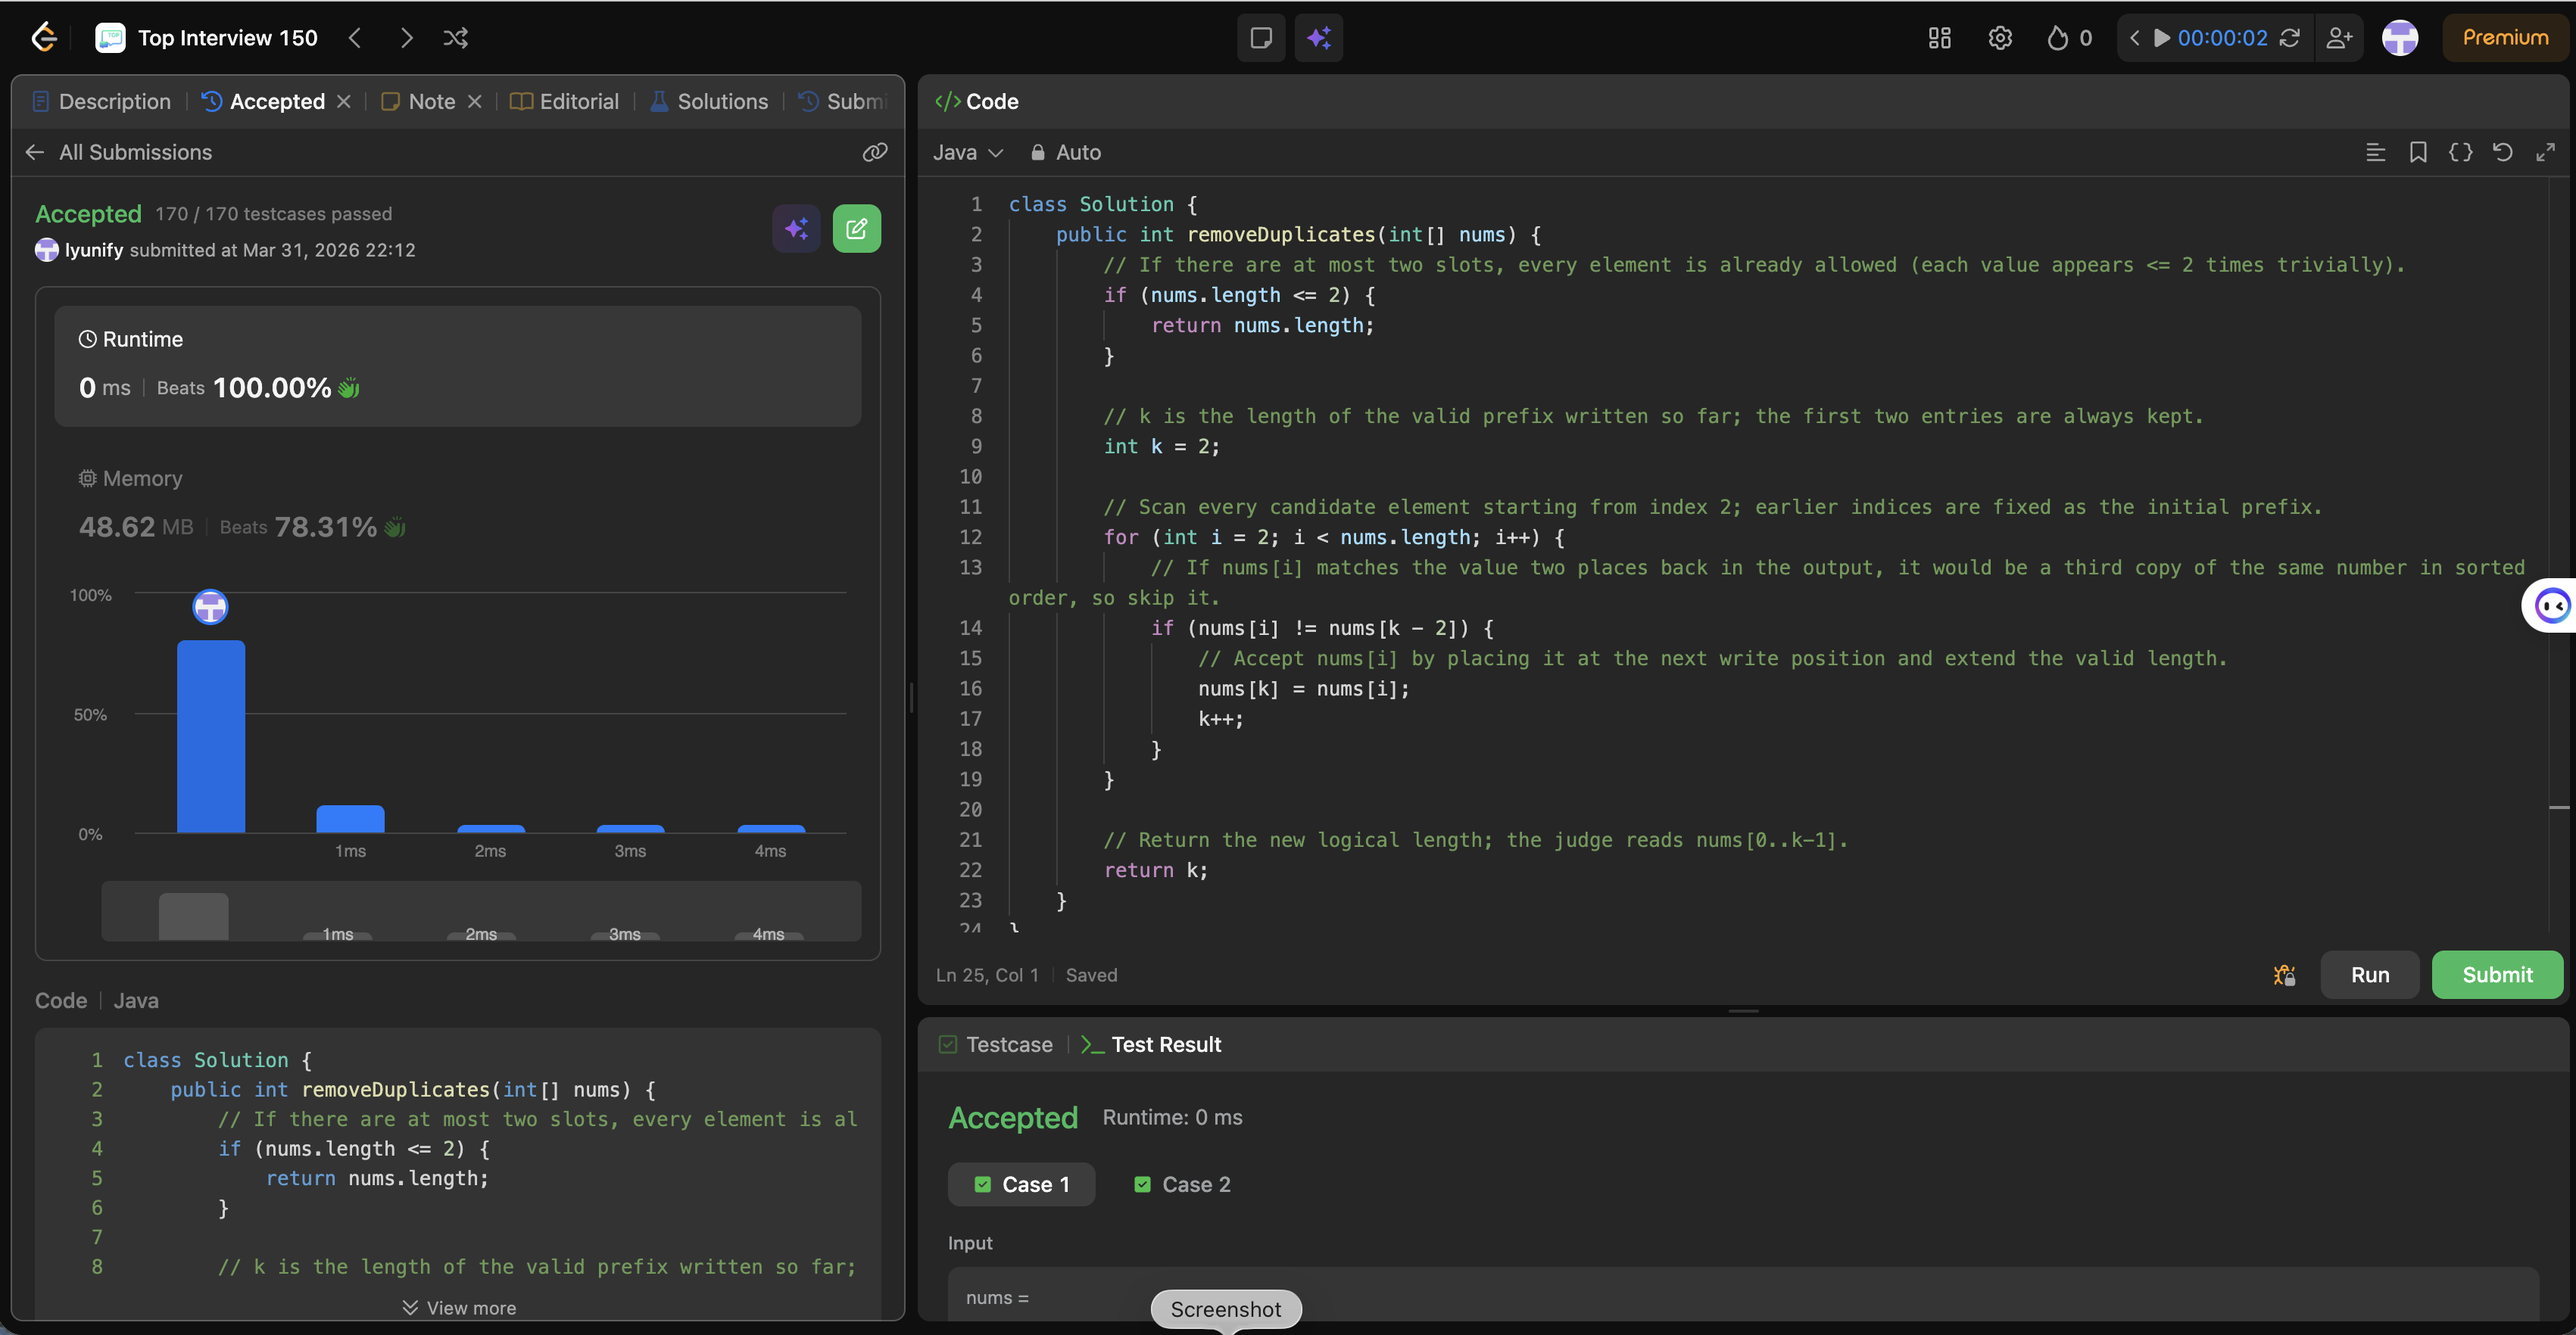
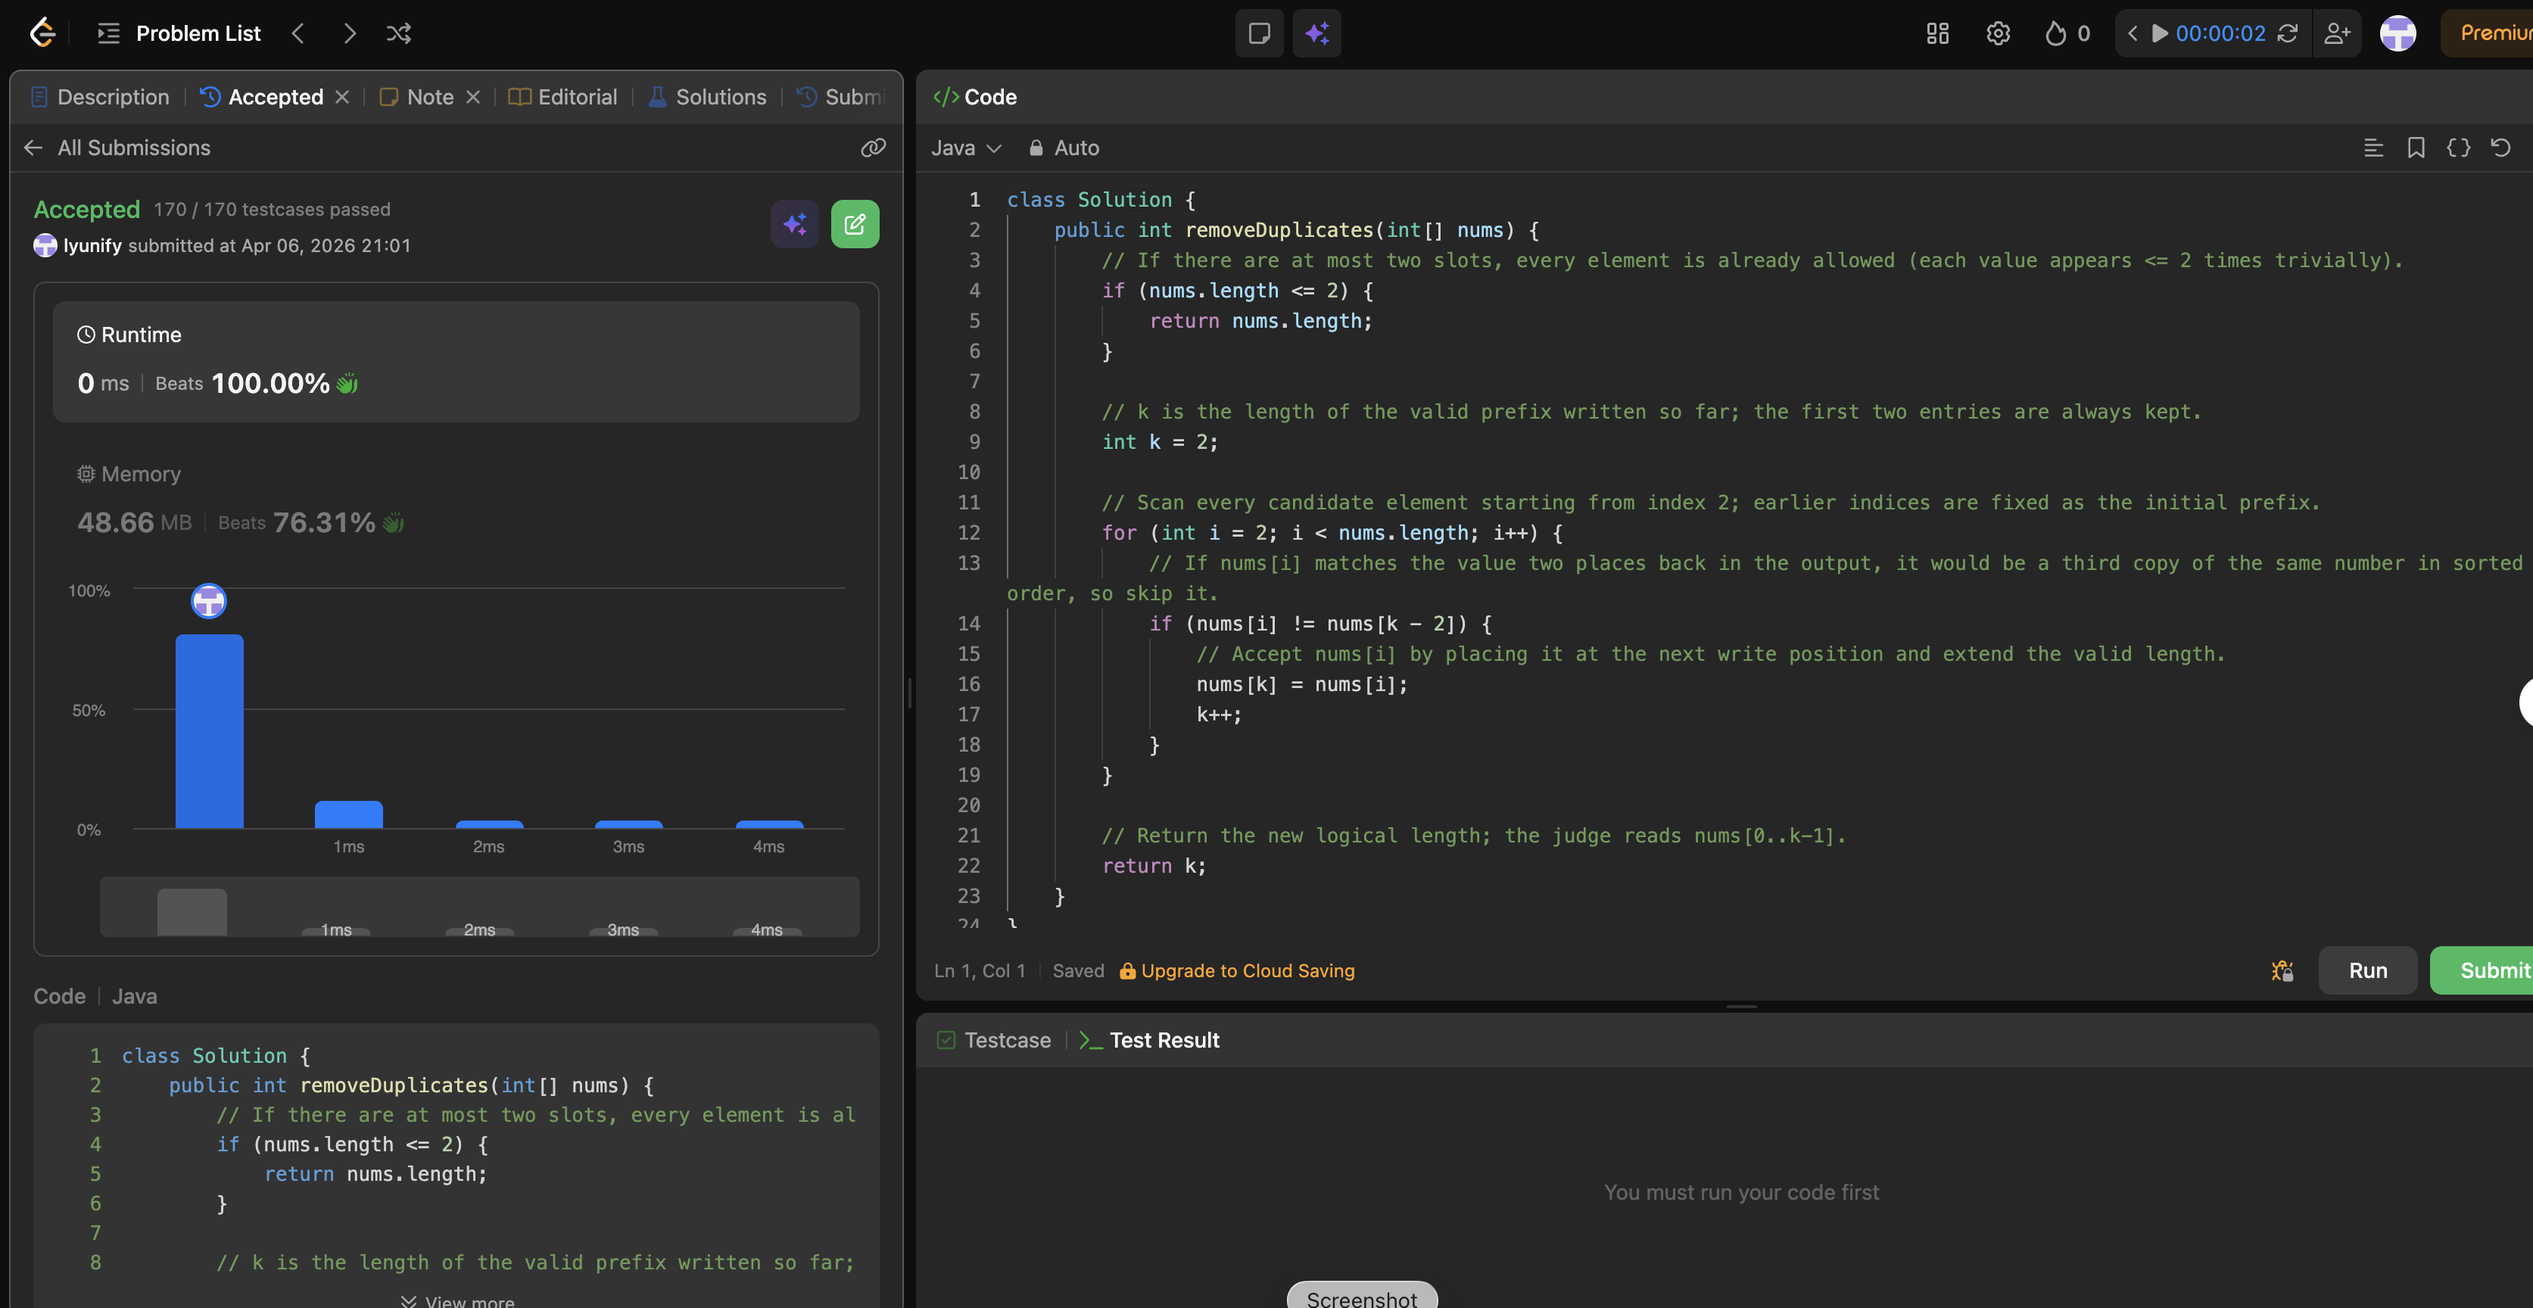
note: 0080-remove-duplicates-from-sorted-array-ii (2026-04-06)

diff --git a/array/0080-remove-duplicates-from-sorted-array-ii.md b/array/0080-remove-duplicates-from-sorted-array-ii.md
@@ -23,12 +23,18 @@ Given a sorted integer array `nums`, remove duplicates in-place so each value ap
 - Compared with the wrong index: checking only `nums[i]` vs `nums[k-1]` does not detect a third duplicate in one pass; the trick is to compare against `nums[k - 2]` (two slots before the write head).
 - Confused "two pointers" with "counting": a frequency map is O(n) extra space; the intended approach is in-place with one slow (`k`) and one fast (`i`) index.
 - Off-by-one on the loop start: the pattern assumes the first two elements are always kept, so `i` must start at 2, not 0 or 1, after the small-n guard.
+- Recycling the problem-26 trick: using `nums[i] != nums[i - 1]` enforces at most one copy, not two — the check must be against the output prefix, not the input scan.
+- Wrong anchor for the third copy: checking `nums[i]` against `nums[i - 1]` only; two equal neighbors can still be the second allowed occurrence — the failure mode is the third in a row, which aligns with `nums[k - 2]`.
+- Mixing i and k carelessly: writing `nums[i] != nums[i - 2]` without keeping straight "two back in the input" vs "two back in the written prefix"; the safe test is always against `nums[k - 2]` once `k >= 2`.
+- Resetting the run on every unequal neighbor: treating each `!=` as a brand-new distinct value without remembering two copies are still allowed — the rule is "no third in a contiguous run," not "no repeat."
 
 ## Key Insight
 
 - Sorted ⇒ duplicates are contiguous, so "allowed twice per value" can be enforced by only looking at the last two accepted positions in the compacted prefix.
 - Invariant: `nums[0..k-1]` is always valid; for `i >= 2`, if `nums[i] != nums[k-2]`, then `nums[i]` is either a new value or the second copy of the current run — safe to write at `k` and increment `k`.
 - Why `k - 2`: if it equals `nums[i]` while the run already occupies `k-2` and `k-1`, accepting `nums[i]` would create three equal values in a row; skip without writing.
+- First two slots are free: with `k = 2`, the initial prefix `nums[0]` and `nums[1]` are always valid — every value appears at most twice in a block of length 2.
+- General pattern: "at most m copies" uses comparison m positions back in the written array (here m = 2 → `k - 2`).
 - Time O(n), space O(1): one pass, only index variables — same family as "Remove Duplicates I" but the "at most two" rule changes the compare offset from `k-1` to `k-2`.
 
 ## Correct Approach
@@ -71,3 +77,4 @@ class Solution {
 | Date | Outcome | Notes |
 |------|---------|-------|
 | 2026-03-31 | ✅ | Accepted (100% runtime); mistakes on small-n guard, wrong compare index, loop start |
+| 2026-04-06 | ✅ Solved after review | Recycled problem-26 trick (i-1 instead of k-2); mixed i vs k indices; forgot short-array edge case; wrong anchor for third-copy detection |
